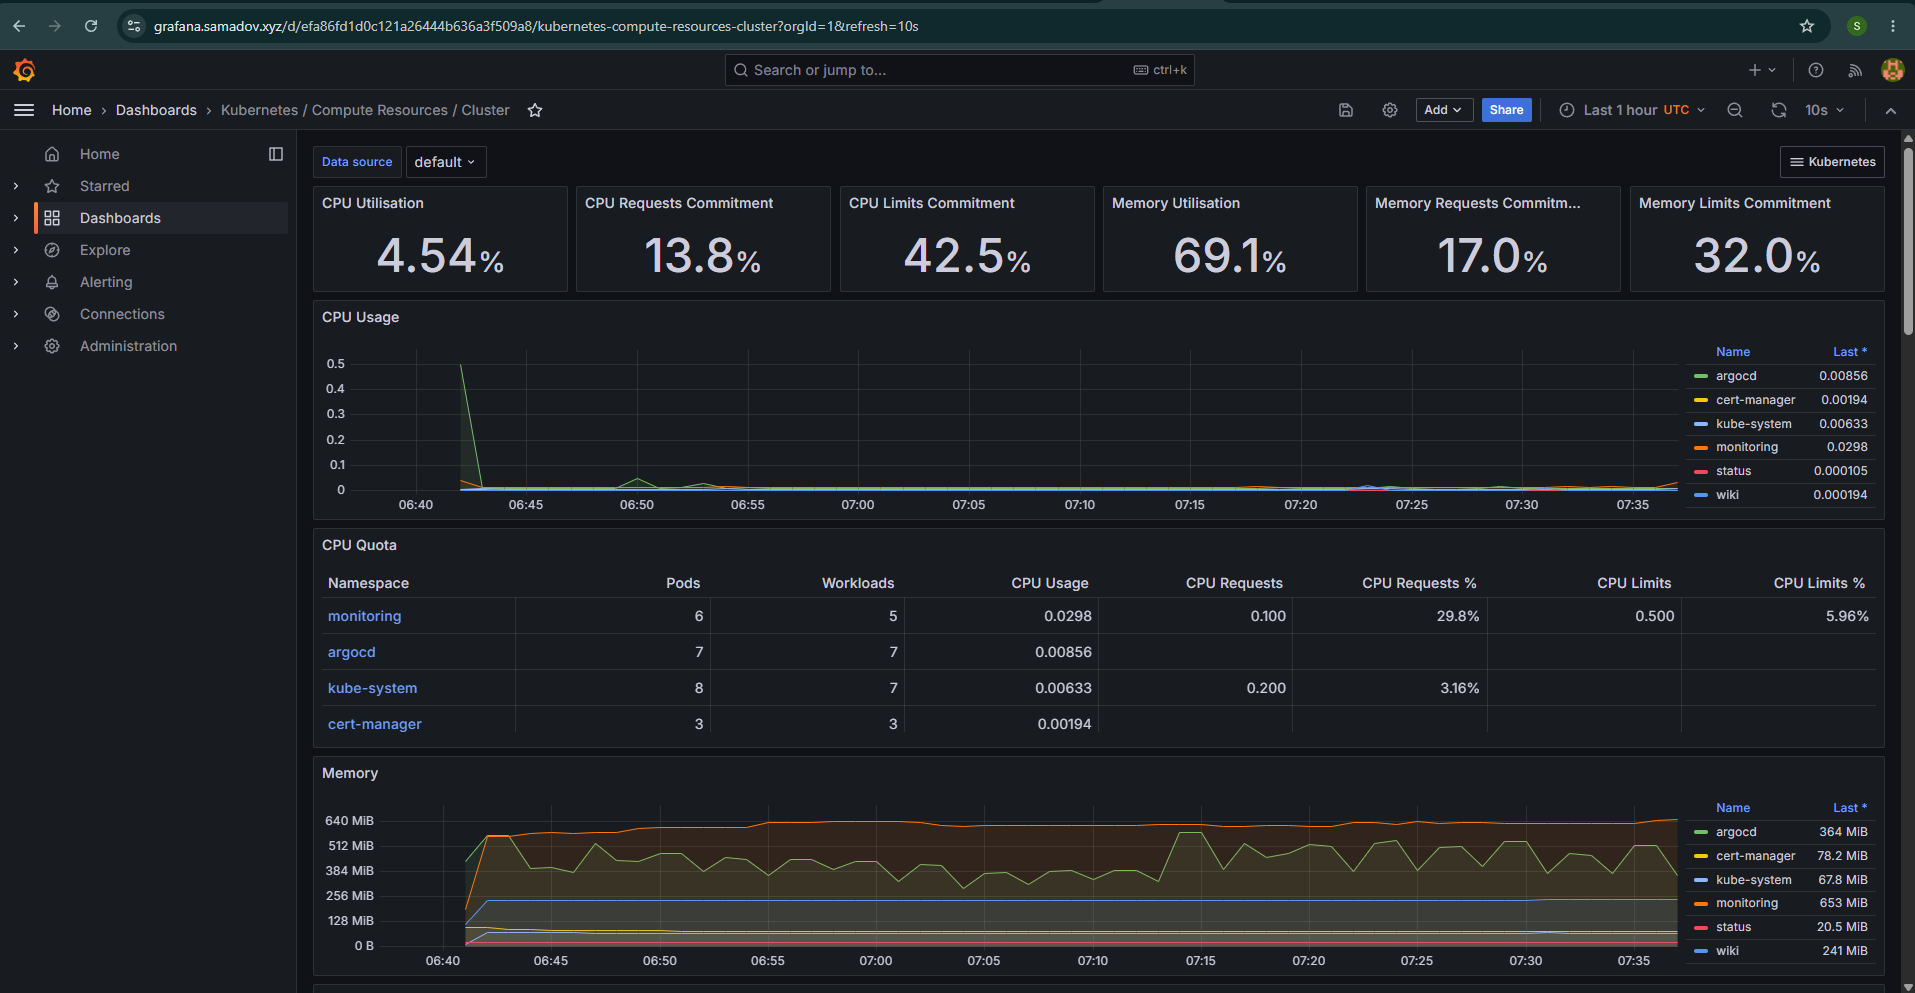
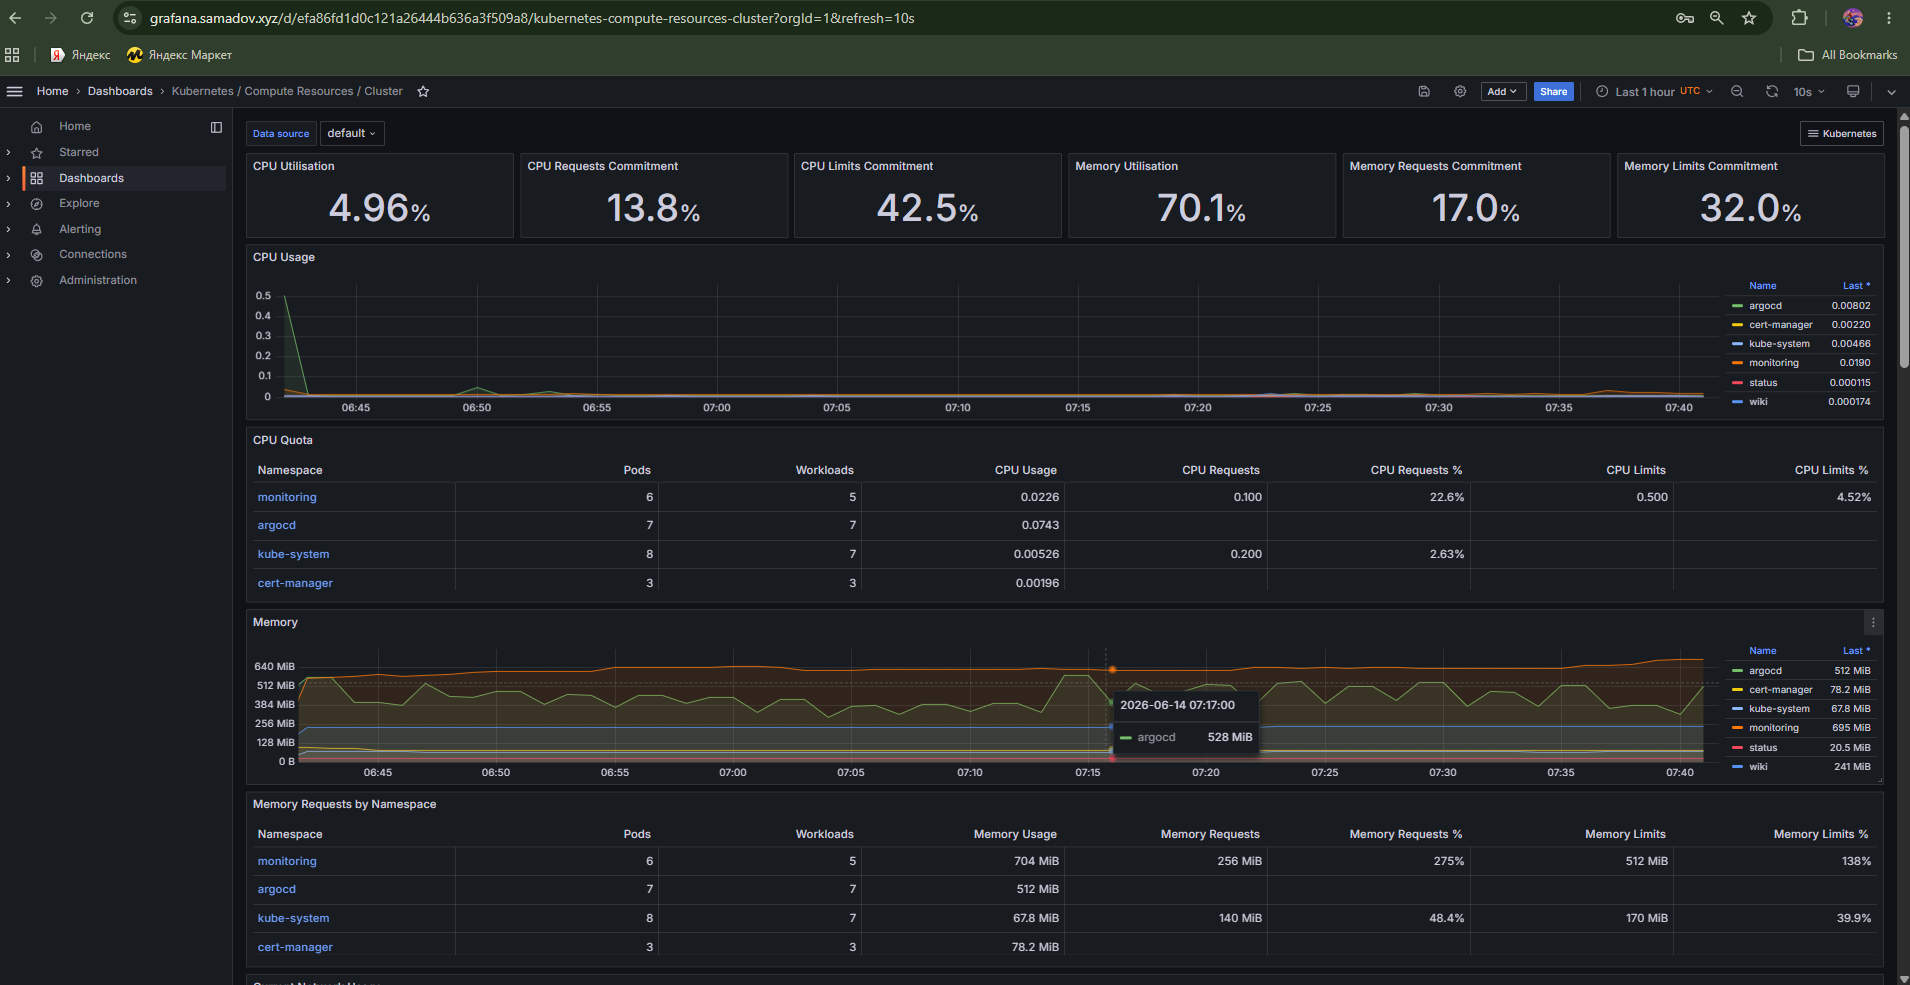
Add screenshot of Grafana cluster dashboard and update README.md

diff --git a/README.md b/README.md
@@ -306,9 +306,6 @@ Grafana at `https://grafana.samadov.xyz` includes 20+ pre-built dashboards:
 ### Grafana — Node Exporter system metrics
 ![Grafana Node Exporter](docs/screenshots/grafana-node-exporter.png)
 
-### Grafana — Dashboard overview or alerts
-![Grafana Overview](docs/screenshots/grafana-overview.png)
-
 ### Wiki.js — Live self-hosted wiki
 ![Wiki.js Dashboard](docs/screenshots/wikijs-dashboard.png)
 
@@ -365,7 +362,6 @@ Stopped overnight (EC2 + RDS stopped, NAT Gateway left running): ~$1.08/day base
 ## Author
 
 **Firdavs Samadov**
-DevOps & Cloud Engineering Master's Student
-2 years networking (Cisco CCNA 1–3) · 1 year Systems Administration
+DevOps & Cloud Engineering
 
-[GitHub](https://github.com/Fedia-2211) · [LinkedIn](#)
+[GitHub](https://github.com/Fedia-2211) · [LinkedIn](https://www.linkedin.com/in/firdavs-samadov-0b82603b6/)